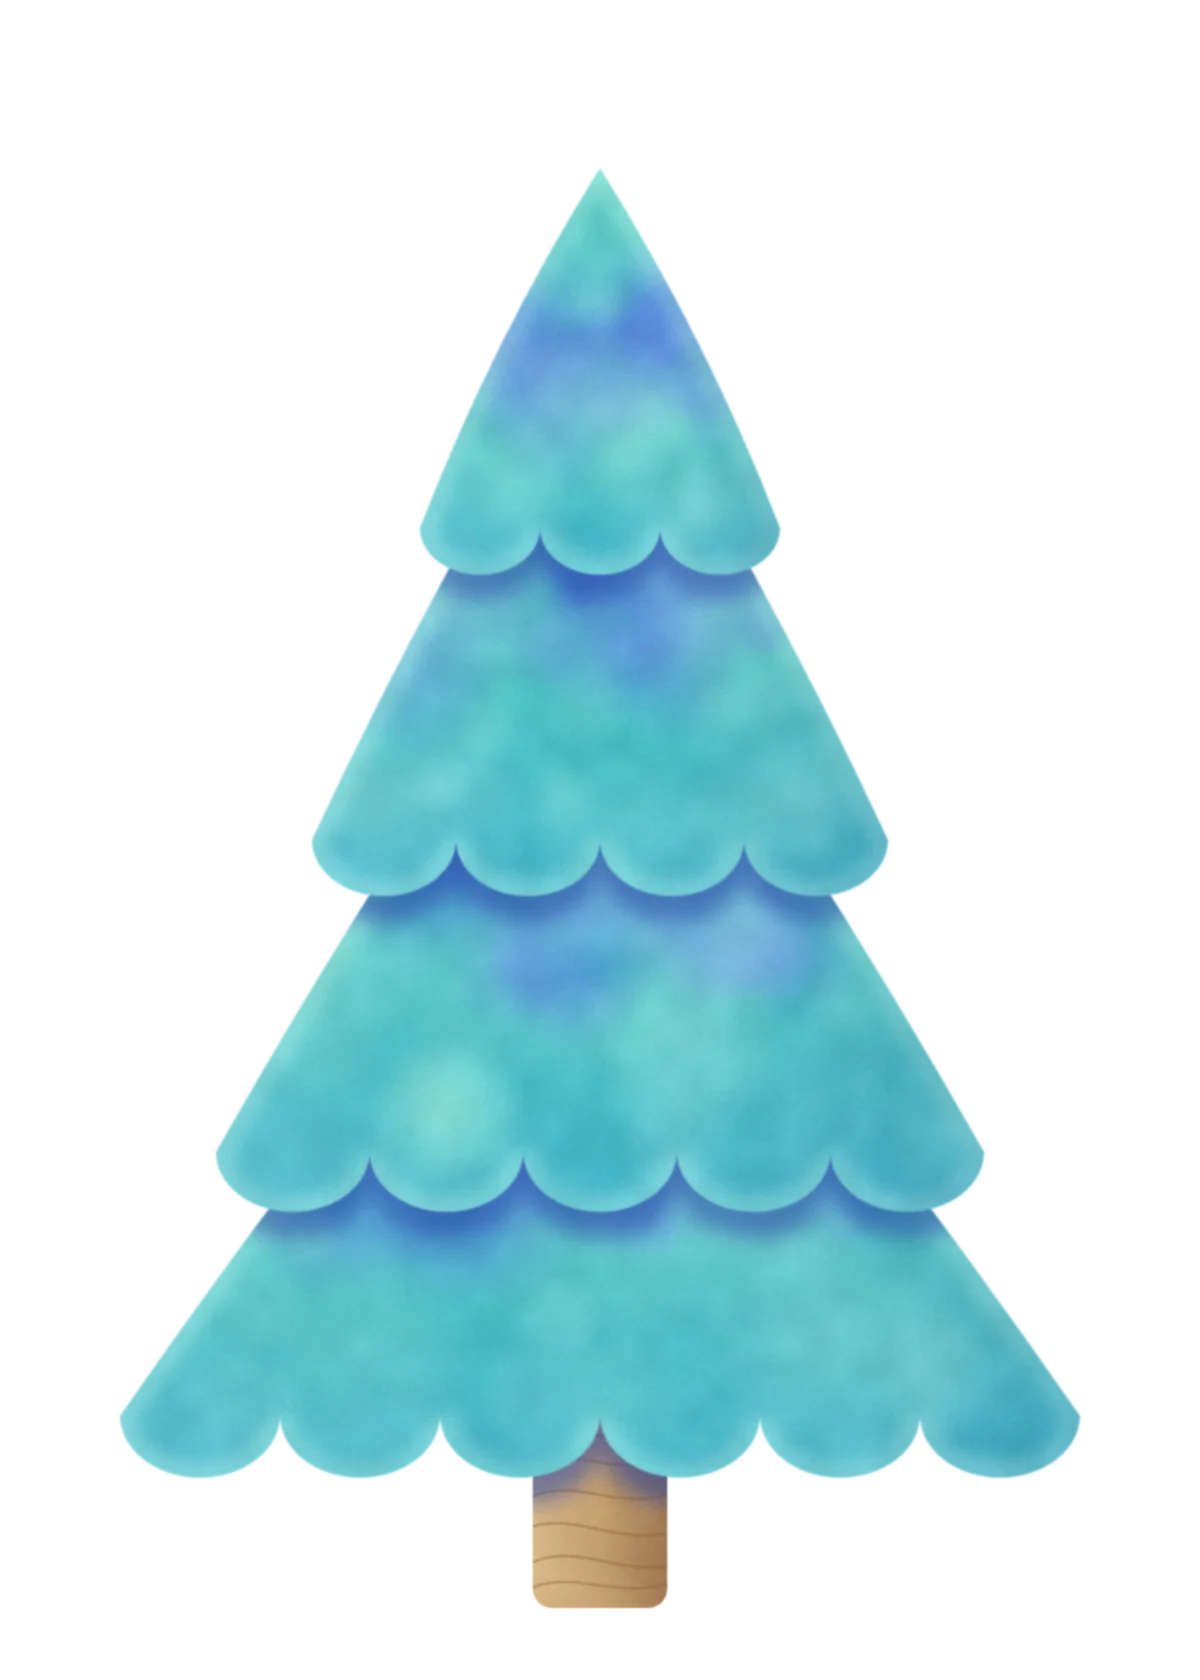
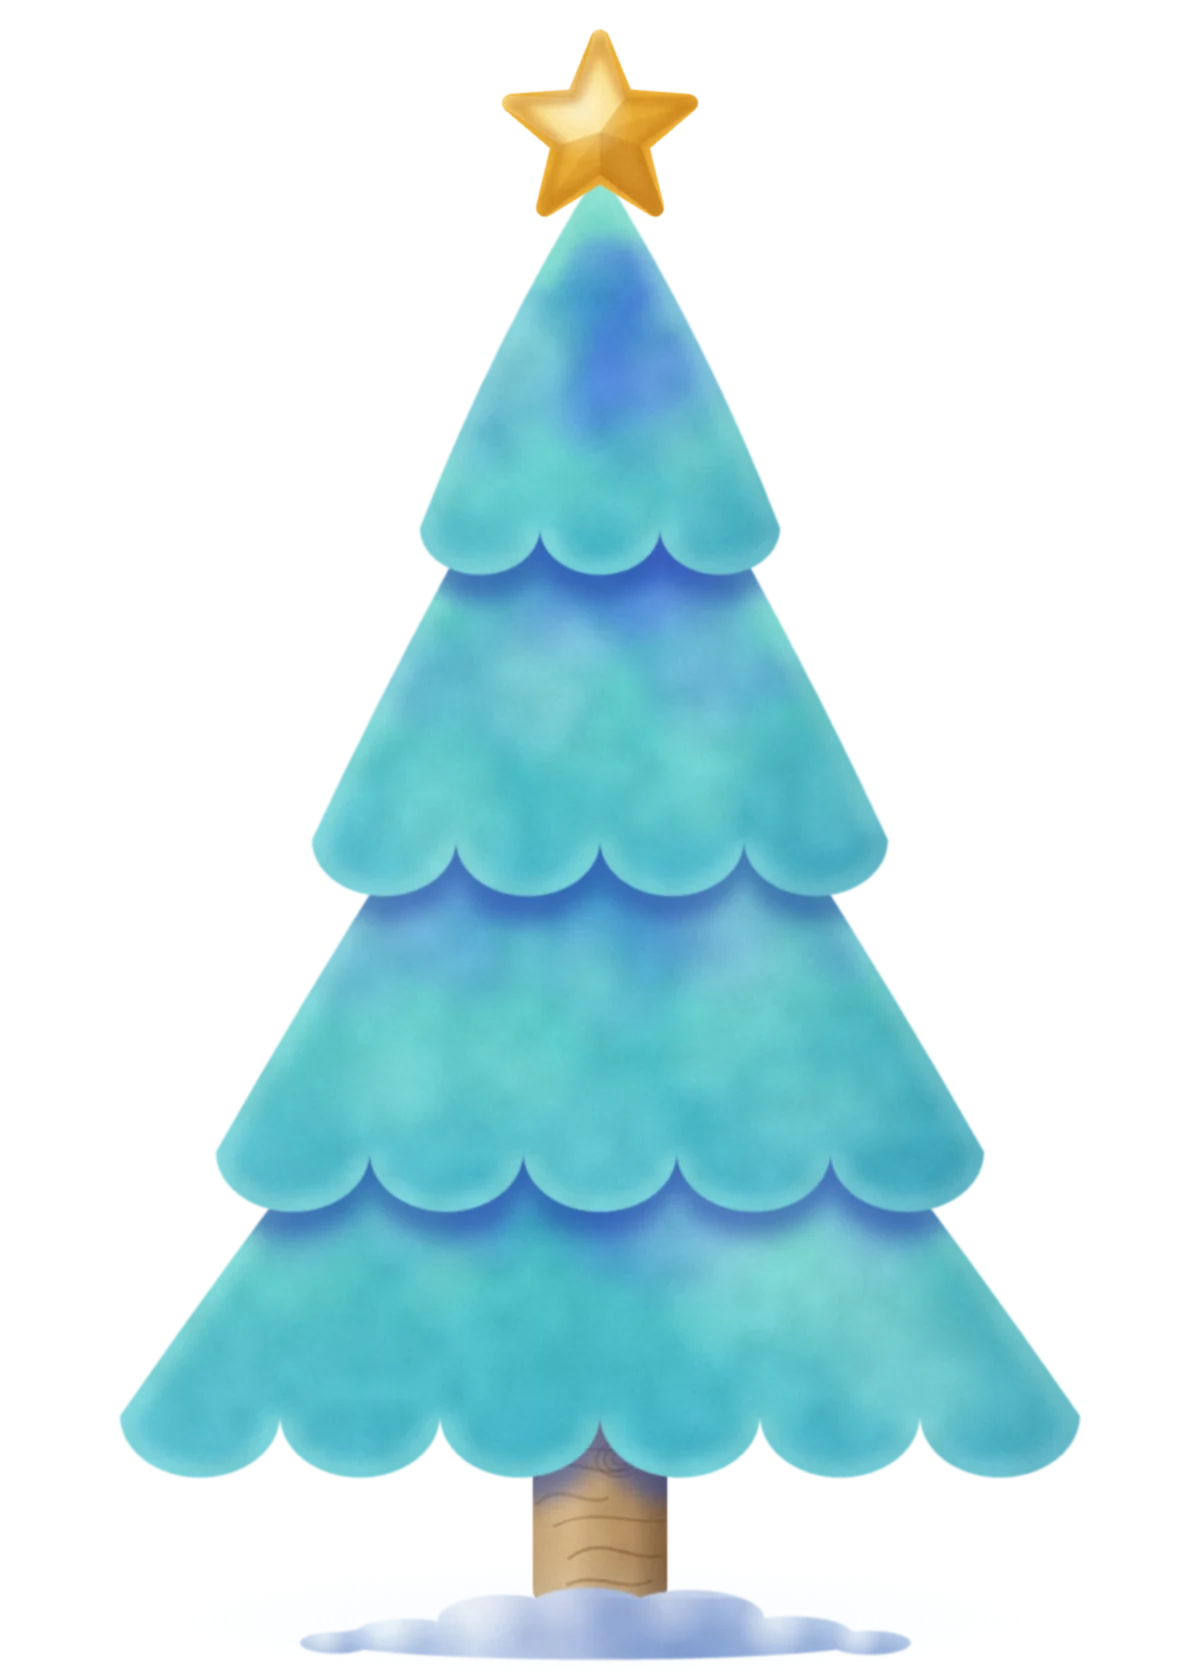
수채화 시안: 별, 눈 더미, 기둥 결도 그림 안에 칠한다
트리만 칠하고 별과 바닥은 매끈한 도형이라 도형의 집합처럼 튀어 보였다.
별은 둥근 꼭지와 열 면의 입체로, 바닥은 회색 접시 같던 타원 대신 낮게 쌓인
눈 덩이로, 기둥 결은 제각각의 선과 옹이로 칠했다. 섬광과 둘레 빛은 그대로 얹는다.
기본 화면은 그대로이고 art=paint 일 때만 켜진다.

diff --git a/tree.html b/tree.html
@@ -268,11 +268,16 @@ mountSnow($('#snow'), 160);   // 전시 화면은 넉넉히
     [['0%', '#ffffff', '.95'], ['40%', '#fff3cf', '.35'], ['100%', '#ffe09a', '0']]);
   art.appendChild(defs);
 
-  add('circle', { id: 'starGlow', cx: 50, cy: STAR_Y, r: GLOW_R, fill: 'url(#xmStarGlow)' });
-  /* 가만히 있을 때는 금색으로 둔다. 거의 흰 별로 뒀더니 섬광이 터져도 더 밝아질
-     자리가 없어 아무 일도 안 일어난 것처럼 보였다. */
-  add('path', { d: starPath(50, STAR_Y, 8.4, 3.5), fill: '#edc05c' });
-  add('path', { d: starPath(50, STAR_Y - 0.5, 4.2, 1.8), fill: '#ffeaae', 'fill-opacity': 0.85 });
+  const glow = add('circle', { id: 'starGlow', cx: 50, cy: STAR_Y, r: GLOW_R, fill: 'url(#xmStarGlow)' });
+  if (look === 'paint') {
+    // 수채화 시안은 별을 그림 안에 칠해 두었다. 둘레 빛만 그림 뒤로 깔고 섬광은 위에 얹는다.
+    art.prepend(glow);
+  } else {
+    /* 가만히 있을 때는 금색으로 둔다. 거의 흰 별로 뒀더니 섬광이 터져도 더 밝아질
+       자리가 없어 아무 일도 안 일어난 것처럼 보였다. */
+    add('path', { d: starPath(50, STAR_Y, 8.4, 3.5), fill: '#edc05c' });
+    add('path', { d: starPath(50, STAR_Y - 0.5, 4.2, 1.8), fill: '#ffeaae', 'fill-opacity': 0.85 });
+  }
 
   /* ── 샹들리에 섬광 ───────────────────────────────────────────
      꼭지 다섯과 안쪽 네 군데에 작은 네 갈래 빛을 둔다. 길이와 시작을 모두 달리해

diff --git a/tree-layout.js b/tree-layout.js
@@ -299,12 +299,10 @@ function sparklePath(x, y, r) {
 
 function paintedTreeSVG({ lights = true } = {}) {
   let defs = '', body = '';
-  // 바닥 눈(기둥 그림 밑에 깔린다)
-  body += `<ellipse cx="50" cy="${TRUNK.groundY + 1}" rx="44" ry="4.6" fill="#dceaf7" opacity=".09"/>`;
+  /* 기둥, 눈 더미, 꼭대기 별까지 그림 안에 칠해 두었다. 매끈한 도형으로 따로 그리면
+     수채화 트리 사이에서 도형만 튀어 보인다(2026-11-24 "도형의 집합 같다").
+     그래서 화면(tree.html, index.html)은 이 모드에서 별을 따로 그리지 않는다. */
   body += `<image href="${PAINT_IMG}" x="0" y="0" width="${TREE.vbW}" height="${TREE.vbH}"/>`;
-  // 기둥 밑을 덮는 눈 더미
-  body += `<ellipse cx="50" cy="${TRUNK.groundY}" rx="${TRUNK.half * 2.6}" ry="2.4" fill="#dceaf7" opacity=".42"/>`;
-  body += `<ellipse cx="48.5" cy="${TRUNK.groundY - 0.6}" rx="${TRUNK.half * 1.5}" ry="1.2" fill="#eef6fd" opacity=".3"/>`;
 
   if (lights) {
     defs += '<radialGradient id="xtGlow">'

diff --git a/index.html b/index.html
@@ -489,7 +489,7 @@ function drawPickTree() {
   // ?art=paint(수채화), ?art=needle(침엽 질감)은 시안. 전시 트리와 같이 켜야 두 화면이 같아 보인다.
   const look = new URLSearchParams(location.search).get('art');
   art.insertAdjacentHTML('beforeend', treeArtSVG({ needles: look === 'needle', paint: look === 'paint' }));
-  add('path', { d: starPath(50, 11, 8.4, 3.5), fill: '#f7d479' });
+  if (look !== 'paint') add('path', { d: starPath(50, 11, 8.4, 3.5), fill: '#f7d479' });   // 수채화 시안은 별이 그림 안에 있다
 }
 
 /** 이미 걸린 것들을 트리에 깔아 둔다(빈자리를 눈으로 찾게) */

diff --git a/작업기록.md b/작업기록.md
@@ -19,6 +19,17 @@
   둥근 빛)를 SVG로 얹는다. 세 무리(`.xt-l0~2`)라 전구 줄처럼 박자를 어긋나게 숨 쉰다.
 - `tree.html`, `index.html` 이 `?art=paint` 를 읽는다.
 - `npm test` 32개 통과. 콘솔 오류 없음.
+- **이어서 "별 모양이나 아래 눈 쌓인 거 전부 도형의 집합 같다"**: 맞는 말이었다. 트리만 칠하고
+  별(두 겹 별), 바닥(반투명 타원 두 장, 회색 접시로 보였다), 기둥 결(고른 물결선)은 매끈한 도형이라
+  오히려 더 튀었다. 셋 다 같은 그림 안에 칠했다.
+  - 별: 꼭지를 둥글게, 가운데에서 꼭지로 가는 능선을 따라 열 면을 왼쪽 위 빛으로 밝고 어둡게.
+    이 모드에서는 화면이 별을 따로 그리지 않고, 둘레 빛은 그림 뒤로, 샹들리에 섬광은 그대로 위에 얹는다.
+  - 눈 더미: 크기가 다른 덩이를 낮게 쌓고 아래 오른쪽 푸른 그늘, 위 흰 빛, 트리가 드리운 그늘.
+    처음엔 구름처럼 크고 덩이 사이에 검은 줄이 생겼다. 줄은 `Path2D.ellipse` 를 `moveTo` 없이 이어
+    붙여 생긴 구멍이었다(타원마다 끊어야 한다).
+  - 기둥: 결의 길이, 간격, 굵기를 제각각으로, 옹이 하나, 양옆 그늘.
+  - 그림은 약 96KB가 됐다.
+- 다음 후보: 오너먼트도 매끈한 반짝이 도형이라 칠한 트리 위에서 스티커처럼 보일 수 있다. 아직 손대지 않았다.
 
 **보는 주소**: `https://hoseong911.github.io/xmas/tree.html?demo=160&art=paint`
 
